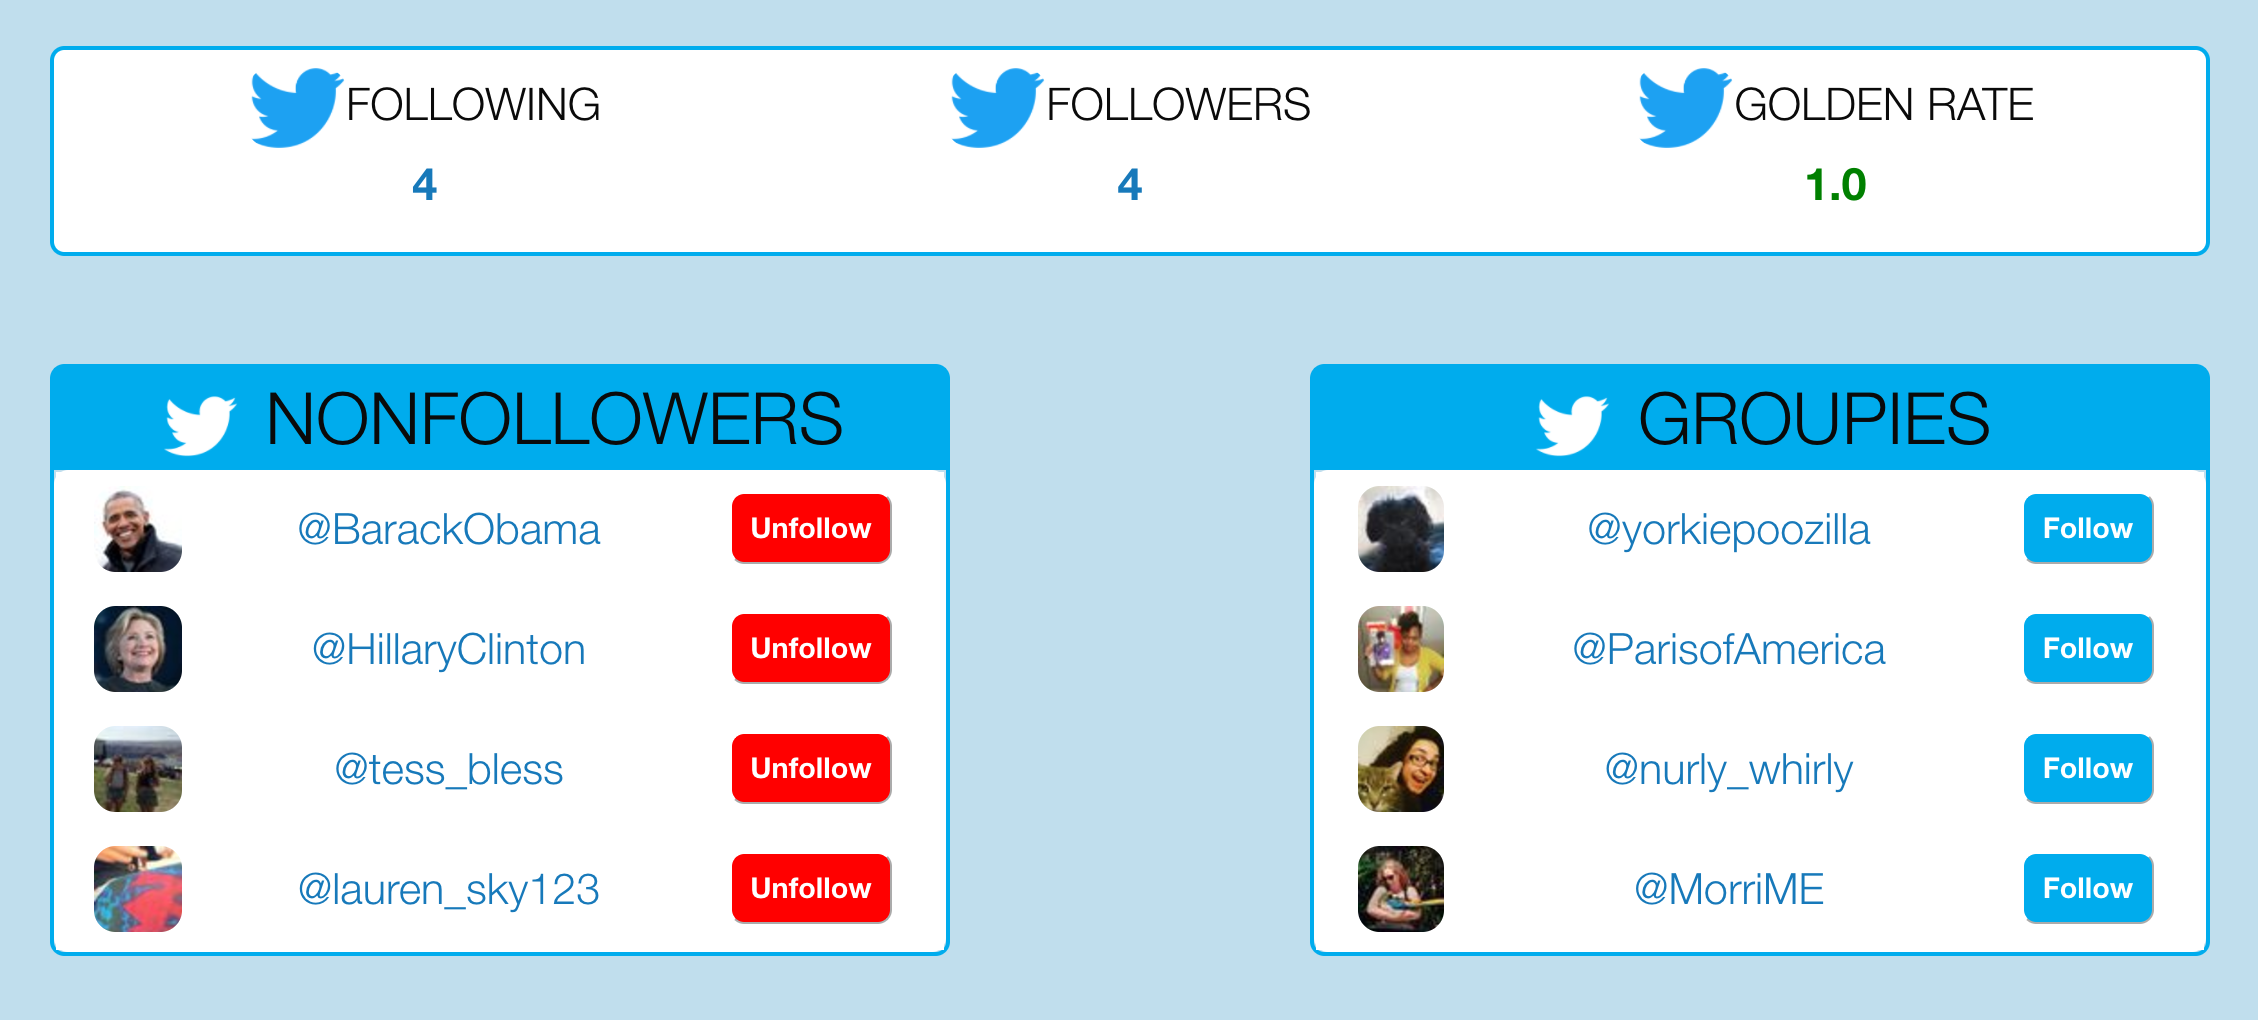
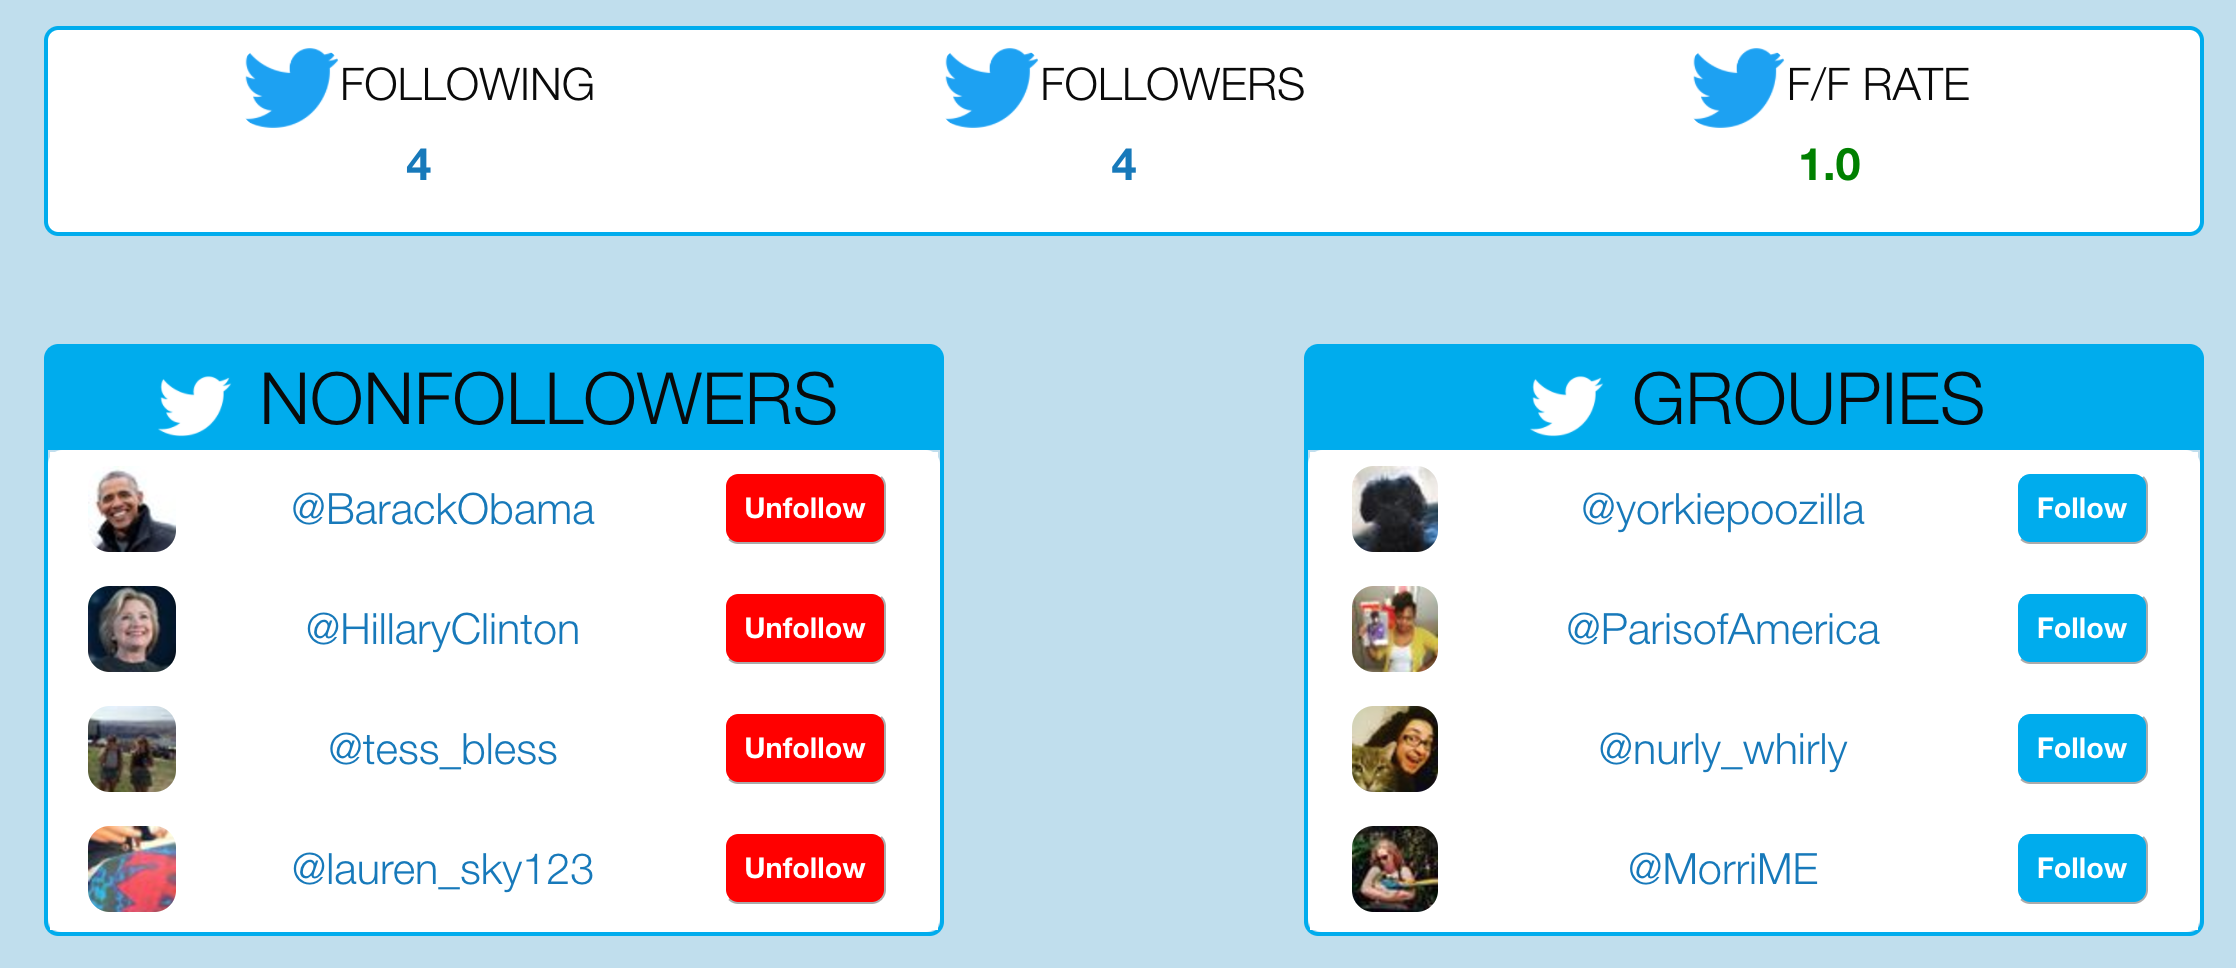
some more styling

diff --git a/app/controllers/home_controller.rb b/app/controllers/home_controller.rb
@@ -106,11 +106,11 @@ class HomeController < ApplicationController
         @data_origin = "DATABASE"
       end
 
-      # GOLDEN F/F RATE AND FOLLOWERS/FOLLOWING COUNT:
+      # F/F RATE AND FOLLOWERS/FOLLOWING COUNT:
       @total_followers = @followers_images.length
       @total_following = @followees_images.length
       if @followees_images.length > 0 && @followers_images.length > 0
-        @golden_rate = ((@followers_images.length * 1.0) / @followees_images.length).round(2)
+        @ff_rate = ((@followers_images.length * 1.0) / @followees_images.length).round(2)
       end
 
       # DETERMINE RUDE PPL & GROUPIES
